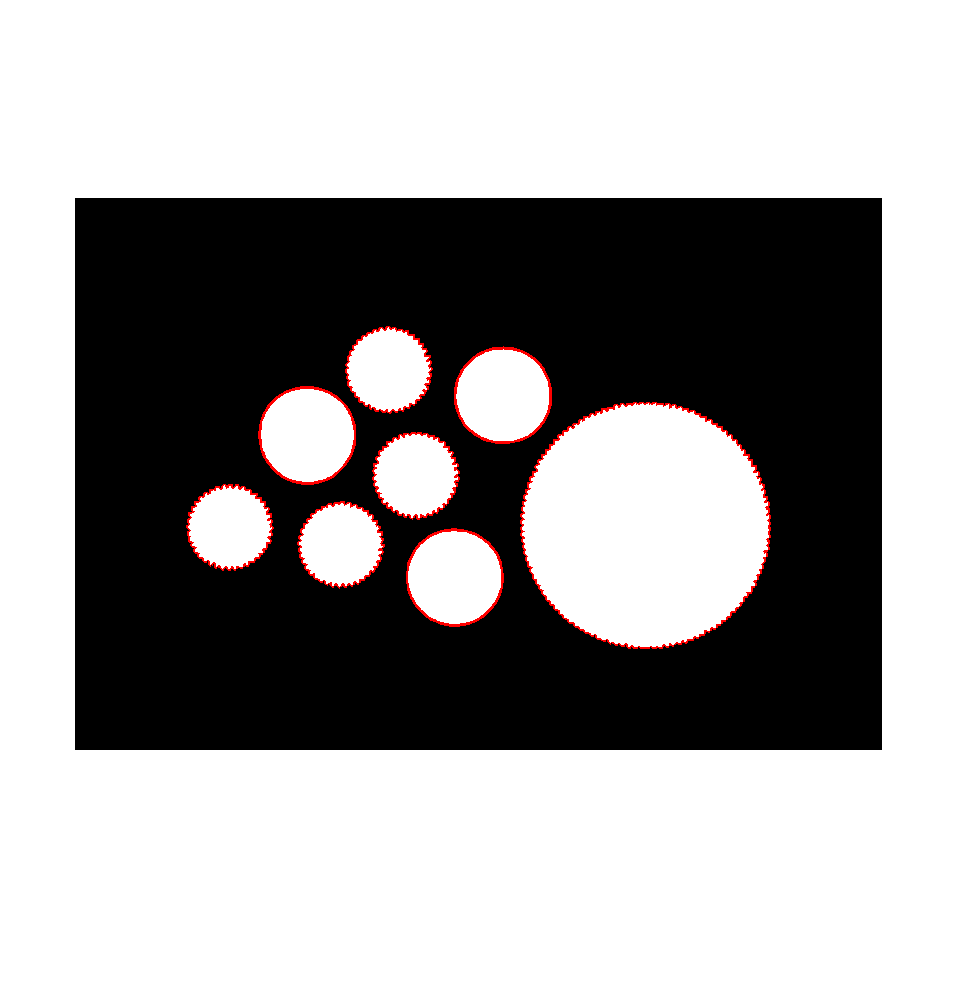
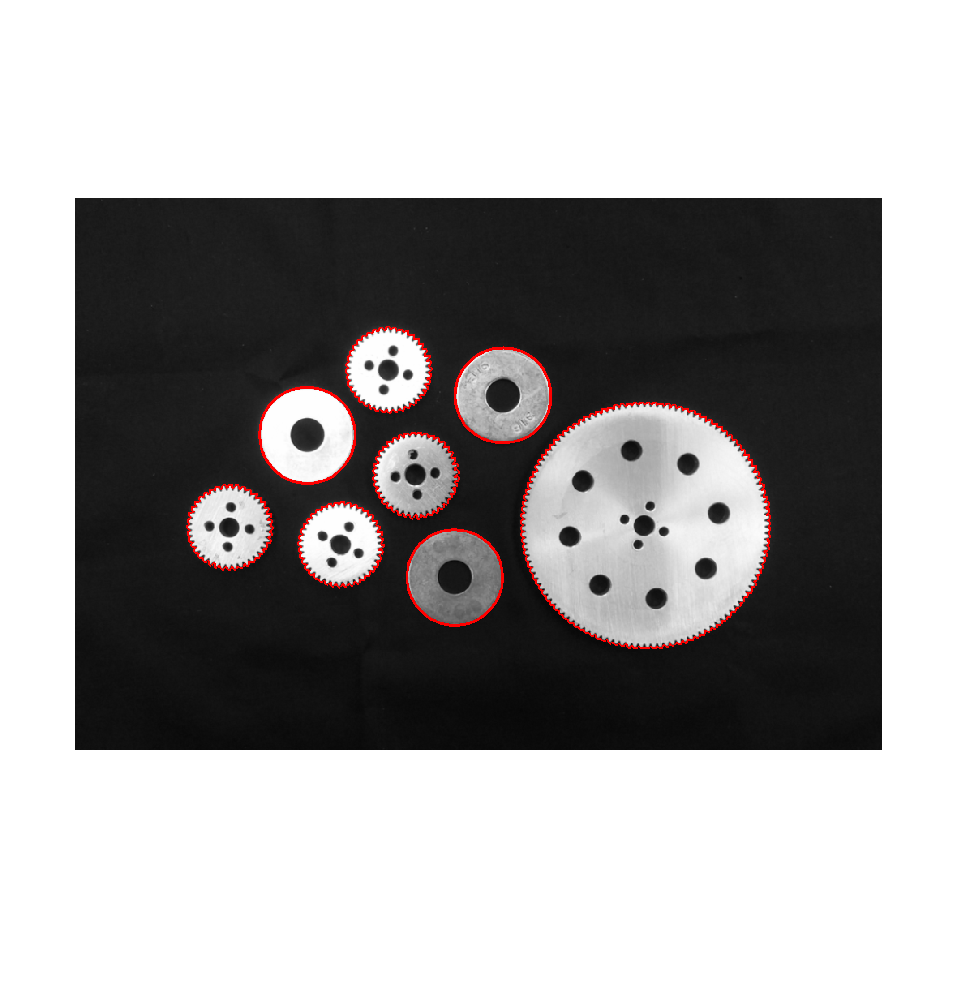
Updated boundary images

Changed region(s): [[0.0605, 0.1873, 0.9384, 0.6556]]

diff --git a/gears.m b/gears.m
@@ -1,7 +1,7 @@
-gears0 = imread('GearsAndWashers2.png');
+gears0 = imread('GearsAndWashers.png');
 gears_bin = edge(gears0, 'Sobel');
 
-imwrite(gears_bin, 'gears2_bin.png')
+%imwrite(gears_bin, 'gears2_bin.png')
 
 strel_hor = strel('line', 3, 0);
 strel_ver = strel('line', 3, 90);
@@ -9,20 +9,20 @@ gears_dil = imdilate(gears_bin, strel_hor);
 gears_dil = imdilate(gears_dil, strel_ver);
 gears_dil = imfill(gears_dil, 'holes');
 
-imwrite(gears_dil, 'gears2_dil.png')
+%imwrite(gears_dil, 'gears2_dil.png')
 
 gears_lab = bwlabel(gears_dil);
 max_val = max(reshape(gears_lab, 1, []));
 gears_lab = double(gears_lab) / max_val * 255;
 
-vislabels(gears_lab)
+%vislabels(gears_lab)
 
-%imshow(gears_lab)
-%hold on
+imshow(gears0)
+hold on
 boundaries = bwboundaries(gears_lab);
 
 for i = 1:length(boundaries)
     boundary = boundaries{i};
-%    plot(boundary(:, 2), boundary(:, 1), 'r', ...
-%    'LineWidth', 2)
+    plot(boundary(:, 2), boundary(:, 1), 'r', ...
+    'LineWidth', 2)
 end
